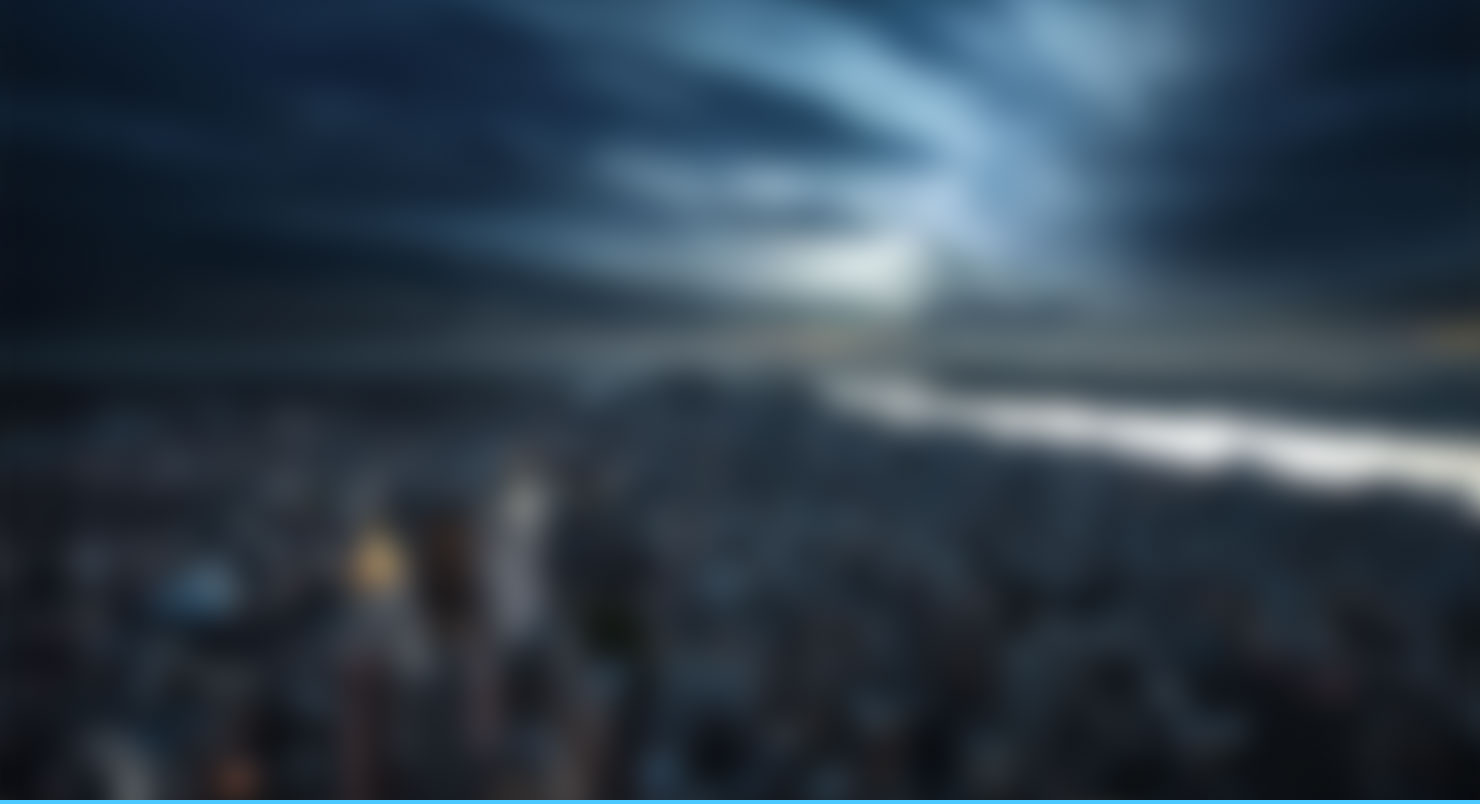
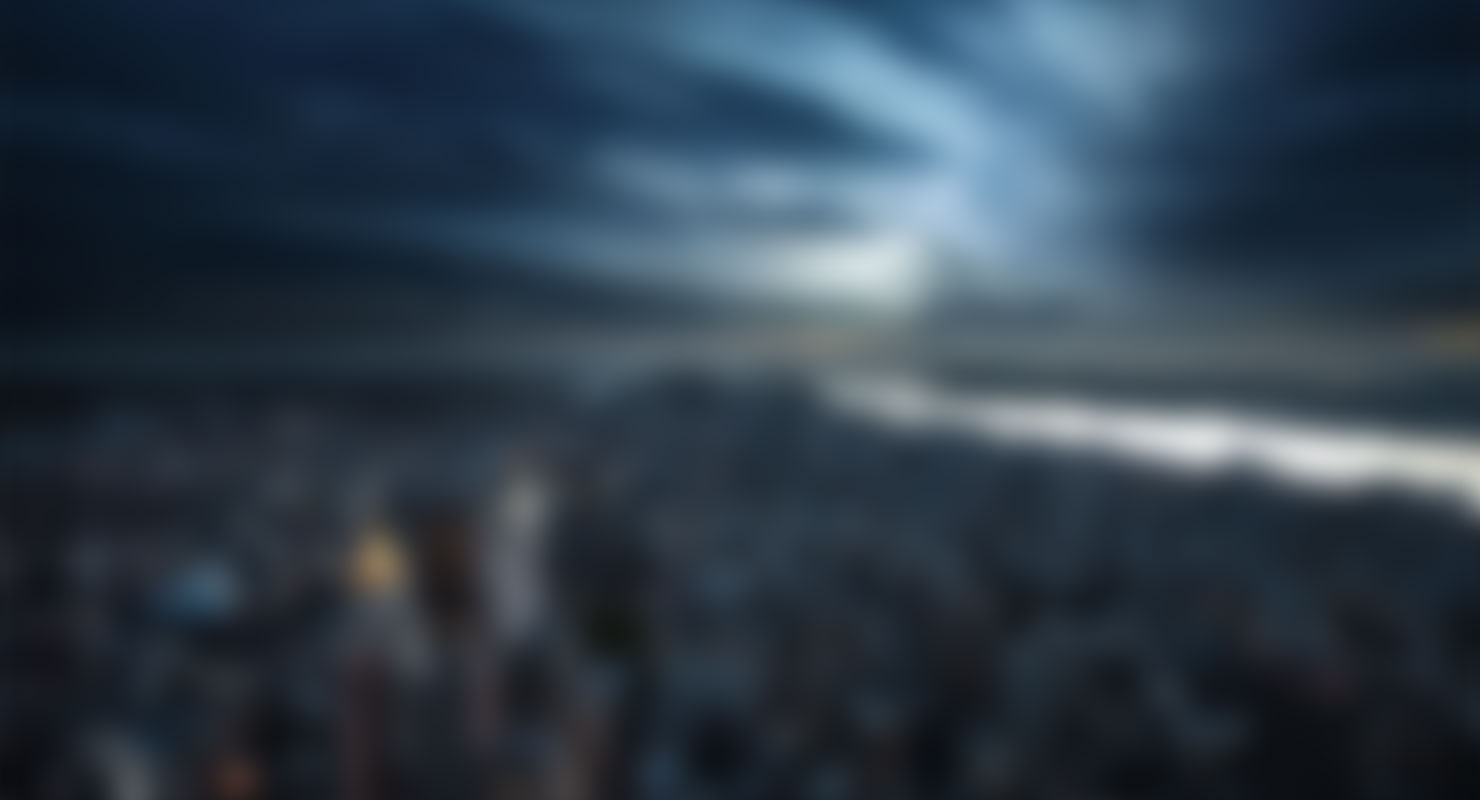
update

Changed region(s): [[0.0, 0.9688, 1.0, 1.0]]

diff --git a/site6/style.css b/site6/style.css
@@ -1,52 +1,249 @@
+.content-wrapper {
+    margin-left: auto;
+    margin-right: auto;
+    padding-left: 10px;
+    padding-right: 10px;
+    width: 1170px;
+}
+
 .slider {
     position: relative;
     overflow: hidden;
-    height: 800px;
+    min-height: 800px;
     background-color: #1f262e;
     background-image: url(images/background.jpg);
     font-family: Lato;
     background-position: 50% 43%;
     background-size: cover;
+    border-bottom: 4px solid #7dabbf;
     color: white;
 }
 
-.slider:after {
+.slider .main + .content-wrapper {
+    overflow: visible;
+    position: relative;
+}
+
+.slider .main + .content-wrapper:before {
     display: block;
     content: "";
     position: absolute;
-    left: -70px;
-    bottom: -80px;
+    left: -222px;
+    bottom: -222px;
     width: 755px;
     height: 682px;
-    transform: rotate(-7deg);
+    transform: rotate(-10deg);
     background-image: url(images/smartphone.png);
-    background-position: 0px 0px;
+    -background-position: 0px 0px;
     background-size: 100% auto;
     background-repeat: no-repeat;
-    background-attachment: scroll;
+    -background-attachment: scroll;
+}
+
+.slider .main + .content-wrapper:after {
+    display: block;
+    content: "";
+    clear: both;
 }
 
 .slider header.main {
     overflow: hidden;
-    padding-left: 10.5%;
-    padding-right: 10.5%;
+    padding-top: 17px;
+    padding-bottom: 28px;
     background-color: rgba(0, 0, 0, 0.7);
     font-family: "Droid Sans";
     font-size: 13px;
 }
 
-.slider .main-menu ul {
+.slider .main-menu {
+    padding-top: 24px;
     float: right;
+}
+
+.slider .main-menu ul {
     padding: 0;
     margin: 0;
+   
 }
 
 .slider .main-menu ul li {
+    padding: 0;
+    margin: 0;
+    margin-left: 35px;
     display: inline-block;
+    
 }
 
 .slider .main-menu ul a {
+    overflow: visible;
+    position: relative;
     color: white;
     text-decoration: none;
     text-transform: uppercase;
+    letter-spacing: -0.3px;
 }
+
+.slider .main-menu ul a:hover {
+    color: #4bcaff;
+}
+
+.slider .main-menu ul a.active {
+    color: #4bcaff;
+    font-weight: bold;
+}
+
+.slider .main-menu ul a.active:before {
+    display: block;
+    content: "";
+    position: absolute;
+    top: -39px;
+    width: 100%;
+    height: 2px;
+    background-color: #4bcaff;
+    
+}
+
+.slider .slider-content {
+    position: relative;
+    z-index: 1;
+    float: right;
+    width: 672px;
+    padding-top: 206px;
+}
+
+.slider .slider-content h1 {
+    font-size: 48px;
+    font-weight: 300;
+    margin-bottom: 1px;
+}
+
+.slider .slider-content .amazing {
+    font-weight: 700;
+}
+
+.slider .slider-content p {
+    font-size: 18px;
+    font-weight: 300;
+}
+
+.slider .slider-content .rectangle-button {
+    display: inline-block;
+    box-sizing: border-box;
+    width: 195px;
+    height: 65px;
+    margin-top: 20px;
+    margin-left: 3px;
+    margin-bottom: 52px;
+    border-radius: 7px;
+    font-family: Lato;
+    color: white;
+    font-size: 15px;
+    text-decoration: none;
+    text-transform: uppercase;
+    padding-top: 23px;
+    vertical-align: top;
+    text-align: center;
+}
+
+.slider .slider-content .download {
+    border: 2px solid white;
+    margin-right: 34px;
+    
+}
+
+.slider .slider-content .learn-more {
+    height: 62px;
+    background-color: #4bcaff;
+    box-shadow: 0 4px 0 #277697;
+}
+
+.slider .slider-content .mobile-platforms {
+    margin-left: 2px;
+    font-size: 18px;
+    font-weight: 300;
+}
+
+.slider .slider-content .mobile-platforms .available {
+    margin-right: 20px;
+}
+
+.slider .slider-content .mobile-platforms a {
+    display: inline-block;
+    vertical-align: middle;
+    width: 52px;
+    height: 52px;
+    margin-right: 13px;
+    position: relative;
+    background-color: #242b33;
+    border-radius: 100%;
+    font-size: 0;
+}
+
+.slider .slider-content .mobile-platforms a:after {
+    display: block;
+    content: "";
+    position: absolute;
+    background-image: url(images/icons.png);
+    background-repeat: no-repeat;
+}
+
+.slider .slider-content .mobile-platforms a.apple:after {
+    width: 20px;
+    height: 25px;
+    top: 26px;
+    left: 26px;
+    margin-top: -15px;
+    margin-left: -10px;
+    background-position: -37px -5px;
+}
+
+.slider .slider-content .mobile-platforms a.android:after {
+    width: 22px;
+    height: 25px;
+    top: 26px;
+    left: 26px;
+    margin-top: -12px;
+    margin-left: -11px;
+    background-position: -5px -5px;
+}
+
+.slider .slider-button {
+    position: absolute;
+    width: 55px;
+    height: 55px;
+    background-color: #7dabbf;
+    border-radius: 100%;
+    border: none;
+}
+
+.slider .slider-button.left {
+    left: -584px;
+    bottom: 260px;
+}
+
+.slider .slider-button.right {
+    left: 702px;
+    bottom: 260px;
+}
+
+
+.slider .slider-button.left:after, .slider-button.right:after {
+    display: block;
+    content: "";
+    position: absolute;
+    width: 8px;
+    height: 2px;
+    background-color: white;
+    transform: rotate(45deg);
+}
+
+.slider .slider-button.left:before, .slider-button.right:before {
+    display: block;
+    content: "";
+    position: absolute;
+    width: 8px;
+    height: 2px;
+    background-color: white;
+    transform: rotate(-45deg);
+}
+

diff --git a/site6/index.html b/site6/index.html
@@ -11,30 +11,36 @@
     <body>
         <section class="slider">
             <header class="main">
-                <img src="images/logo.png" class="logo" alt="Logo">
-                <nav class="main-menu">
-                    <ul>
-                        <li><a href="#" class="active">Home</a></li>
-                        <li><a href="#">Features</a></li>
-                        <li><a href="#">Gallery</a></li>
-                        <li><a href="#">Video</a></li>
-                        <li><a href="#">Prices</a></li>
-                        <li><a href="#">Testimonials</a></li>
-                        <li><a href="#">Download</a></li>
-                        <li><a href="#">Contact</a></li>
-                    </ul>
-                </nav>
+                <div class="content-wrapper">
+                    <img src="images/logo.png" class="logo" alt="Logo">
+                    <nav class="main-menu">
+                        <ul>
+                            <li><a href="#" class="active">Home</a></li>
+                            <li><a href="#">Features</a></li>
+                            <li><a href="#">Gallery</a></li>
+                            <li><a href="#">Video</a></li>
+                            <li><a href="#">Prices</a></li>
+                            <li><a href="#">Testimonials</a></li>
+                            <li><a href="#">Download</a></li>
+                            <li><a href="#">Contact</a></li>
+                        </ul>
+                    </nav>
+                </div>
             </header>
-            <h1>Simple, Beautiful and Amazing</h1>
-            <p>Lorem ipsum dolor sit amet, consectetur adipiscing elit. Nunc eget nunc vitae tellus luctus ullamcorper. Nam porttitor ullamcorper felis at convallis. Aenean ornare vestibulum nisi fringilla lacinia. Nullam pulvinar sollicitudin velit id laoreet. Quisque non rhoncus sem.</p>
-            <a href="#" class="rectangle-button">Download</a>
-            <a href="#" class="rectangle-button">Learn More</a>
-            <button type="button" class="left"></button>
-            <button type="button" class="right"></button>
-            <div class="mobile-platforms">
-                <span>Aavailable on :</span>
-                <a href="#">Apple</a>
-                <a href="#">Android</a>
+            <div class="content-wrapper">
+                <div class="slider-content">
+                    <button type="button" class="slider-button left"></button>
+                    <button type="button" class="slider-button right"></button>
+                    <h1>Simple, Beautiful <span class="amazing">and Amazing</span></h1>
+                    <p>Lorem ipsum dolor sit amet, consectetur adipiscing elit. Nunc eget nunc vitae tellus luctus ullamcorper. Nam porttitor ullamcorper felis at convallis. Aenean ornare vestibulum nisi fringilla lacinia. Nullam pulvinar sollicitudin velit id laoreet. Quisque non rhoncus sem.</p>
+                    <a href="#" class="rectangle-button download">Download</a>
+                    <a href="#" class="rectangle-button learn-more">Learn More</a>
+                    <div class="mobile-platforms">
+                        <span class="available">Available on:</span>
+                        <a href="#" class="apple">Apple</a>
+                        <a href="#" class="android">Android</a>
+                    </div>
+                </div>
             </div>
             <div class="radio-buttons">
                 <input type="radio" name="toggle-slider" value="first" id="radio-1">
